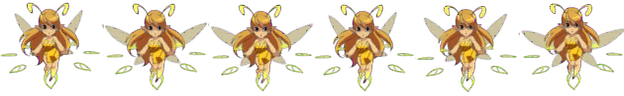
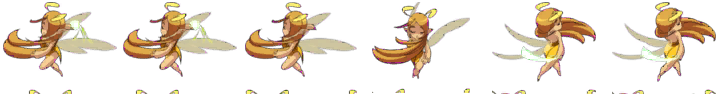
Pixie: as poses certas, recortadas dos nove SVGs da Chloë
- Os nove SVGs que ela mandou trazem a fileira de frente da folha em 4x; cada um e uma janela do mesmo PNG. Recortei os nove quadros dali, alinhei um a um por correlacao com o anterior e centralizei cada um num quadro 120x96 (src/assets/pixie/quadros/1.png a 9.png)
- Bote das asas com as seis poses 1 a 6; a virada segue com as nove
- scripts/montar-pixie.py monta as tiras a partir de quadros/, sem redimensionar: quadro e quadro com o mesmo tamanho e alinhados
- GuiaPixie: QUADRO_LARG 120 e ESCALA 0,72 (o desenho fica do mesmo tamanho na tela)

diff --git a/src/components/tutorial/GuiaPixie.jsx b/src/components/tutorial/GuiaPixie.jsx
@@ -44,11 +44,11 @@ const VIRADA_CADA = 8;
 const VIRADA_DURACAO = 0.8; // tem de casar com a animação do CSS
 
 /* Tamanho de um quadro na folha e o quanto ele cresce na tela. */
-const QUADRO_LARG = 104;
+const QUADRO_LARG = 120;
 const QUADRO_ALT = 96;
 const QUADROS = 6;
-/* 0,75 deixa o desenho no mesmo tamanho de antes na tela (78x72). */
-const ESCALA = 0.75;
+/* 0,72 deixa o desenho no mesmo tamanho de antes na tela. */
+const ESCALA = 0.72;
 const LARGURA = QUADRO_LARG * ESCALA;
 const ALTURA = QUADRO_ALT * ESCALA;
 

diff --git a/scripts/montar-pixie.py b/scripts/montar-pixie.py
@@ -1,47 +1,46 @@
-"""Monta a tira da pixie do tutorial a partir dos sprites soltos.
+"""Monta as tiras da pixie do tutorial a partir dos quadros soltos.
 
 Roda com: python3 scripts/montar-pixie.py
 
-Cada sprite foi exportado separado, numerado pela Chloë (src/assets/pixie/NN.png).
-Aqui eles entram na ordem em que ela mandou e viram uma tira horizontal, que o
-GuiaPixie anima trocando a posição do fundo (steps).
+Os quadros em src/assets/pixie/quadros (1.png a 9.png) vieram dos nove SVGs que
+a Chloë mandou, recortados da fileira de frente da folha em 4x e alinhados por
+correlação com o quadro anterior, cada um centralizado num quadro de 120x96.
+Como o quadro já vem igual e alinhado, aqui só empilhamos lado a lado.
 
 Duas tiras:
 
-- corpo: as seis poses do bote das asas (11 a 16), que tocam sem parar.
-- virar: as nove poses (11 a 19) em ordem, tocadas uma vez a cada oito
-  segundos para ela virar de lado. Essa tira toca de traz para frente quando
-  ela vai para a direita e de frente para traz quando ela vai para a esquerda.
+- corpo: as seis poses do bote das asas (1 a 6), que tocam sem parar.
+- virar: as nove poses (1 a 9) em ordem, tocadas uma vez a cada oito
+  segundos para ela virar de lado. Essa tira toca de trás para frente quando
+  ela vai para a direita e de frente para trás quando ela vai para a esquerda.
 
 As tiras saem em src/assets/pixie/tiras, e não em public: o Vite renomeia o
 arquivo com o hash do conteúdo, então o navegador nunca fica com uma tira velha
 em cache e um quadro a mais ou a menos no CSS.
-
-As imagens são normalizadas para 104x96 (o mesmo quadro de 105x96 que ela
-mandou, menos 1px de largura para o passo do CSS cair em número inteiro).
 """
 from PIL import Image
 import os
 
-PASTA = "src/assets/pixie"
+PASTA = "src/assets/pixie/quadros"
 SAIDA = "src/assets/pixie/tiras"
-LARG, ALT = 104, 96
 
 # bote das asas, tocado sem parar
-CORPO = [11, 12, 13, 14, 15, 16]
+CORPO = [1, 2, 3, 4, 5, 6]
 
 # as nove poses, tocadas uma vez a cada virada
-VIRAR = [11, 12, 13, 14, 15, 16, 17, 18, 19]
+VIRAR = [1, 2, 3, 4, 5, 6, 7, 8, 9]
 
 
 def montar(numeros, destino):
-    tira = Image.new("RGBA", (LARG * len(numeros), ALT), (0, 0, 0, 0))
-    for indice, numero in enumerate(numeros):
-        caminho = os.path.join(PASTA, f"{numero}.png")
-        quadro = Image.open(caminho).convert("RGBA").resize((LARG, ALT), Image.LANCZOS)
-        tira.alpha_composite(quadro, (indice * LARG, 0))
+    quadros = [Image.open(os.path.join(PASTA, f"{n}.png")).convert("RGBA") for n in numeros]
+    larg, alt = quadros[0].size
+    tira = Image.new("RGBA", (larg * len(quadros), alt), (0, 0, 0, 0))
+    for indice, quadro in enumerate(quadros):
+        if quadro.size != (larg, alt):
+            quadro = quadro.resize((larg, alt), Image.LANCZOS)
+        tira.alpha_composite(quadro, (indice * larg, 0))
     tira.save(destino, optimize=True)
-    print(f"{destino}: {tira.width}x{tira.height}, {len(numeros)} quadros")
+    print(f"{destino}: {tira.width}x{tira.height}, {len(quadros)} quadros de {larg}x{alt}")
 
 
 if __name__ == "__main__":
